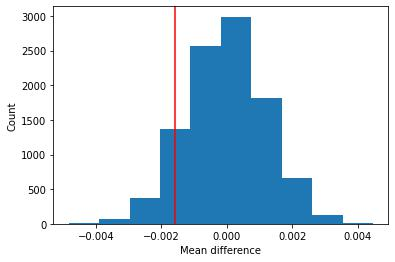
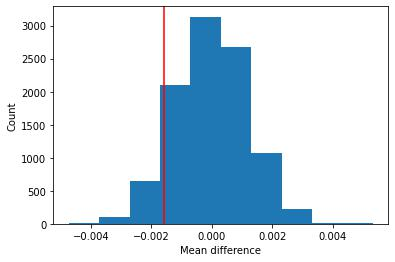
Update README.md

diff --git a/README.md b/README.md
@@ -3,9 +3,49 @@
 
 This was the third project from Udacity's Data Analyst Nanodegree covering the block on Practical Statistics.
 
-## Dataset
+The goal of this project is to determine if an e-commerce website should implement a new website. The dataset contains 290k divided in two groups, 'treatment' and 'control'.
 
+The study is first done through an A/B Test and on a second stage using a Logistic Regression model.
 
-## Summary of Findings
+## A/B Test
 
-![distribution](/images/fig1.jpg)
+### Hypothesis definition
+
+Null hypothesis : the converted rate of the new page minus the converted rate of the old page is equal or lower than 0:
+
+    p(new) - p(old) <= 0
+
+Alternative hypothesis : the converted rate of the new page minus the converted rate of the old page is higher than 0:
+
+    p(new) - p(old) > 0
+
+Type I error rate of 5%.
+
+### Summary of Findings from A/B Test
+
+1. Just by looking at the probability of the users that convert for both the control and treatment groups, there doesn't seem to be evidence to say that the new treatment page leads to more conversions. In fact, based only on these results, the probability for them to convert is slightly higher for the control group.
+
+2. The A/B test fails to reject the null hypothesis, with a p-value of 0.9046. The graph below shows the mean difference between the probability for converting for 'treatment' and 'control' groups for a 10000 random sample. The red line indicates the actual difference observed in the original dataset.
+
+![Mean difference distribution](/images/fig1.jpg)
+
+## Logistic Regression
+
+### Hypothesis definition
+
+In a logistic regression model, the hypotheses refer to the relationship between two variables, in this case **X** would be the landing_page, and **Y** would be the conversion result. The null would say there's no relationship, and the alternative that there's a relationship. No relationship means both pages provide similar converted rates, so we  write them as follows:
+
+    H0: p_new - p_old = 0
+    H1: p_new - p_old != 0
+
+Type I error rate of 5%.
+
+### Summary of Findings from Regression Model
+
+The regression model doesn't provide a clear understanding on what's making people convert, as the page (old vs new) doesn't seem to be clearly correlated, with a p-value of 0.1899.
+
+After adding the country variable, the p-value is still above 0.05 and therefore a relationship between country and conversion cannot be established either.
+
+## Conclusions
+
+The dataset doesn't provide enough evidence to assume the new website would increase the conversion rate. Furthermore, there isn't a variable having a clear correlation to the converted rate so far. This suggests we'd still need to keep looking at other potential factors that may impact the converted rate. The dataframe contains information about the date and time when these pages were visited, so that could be another exploration to do. Another option would be to extend the experiment for a longer period of time, since the results might start varying as well.
